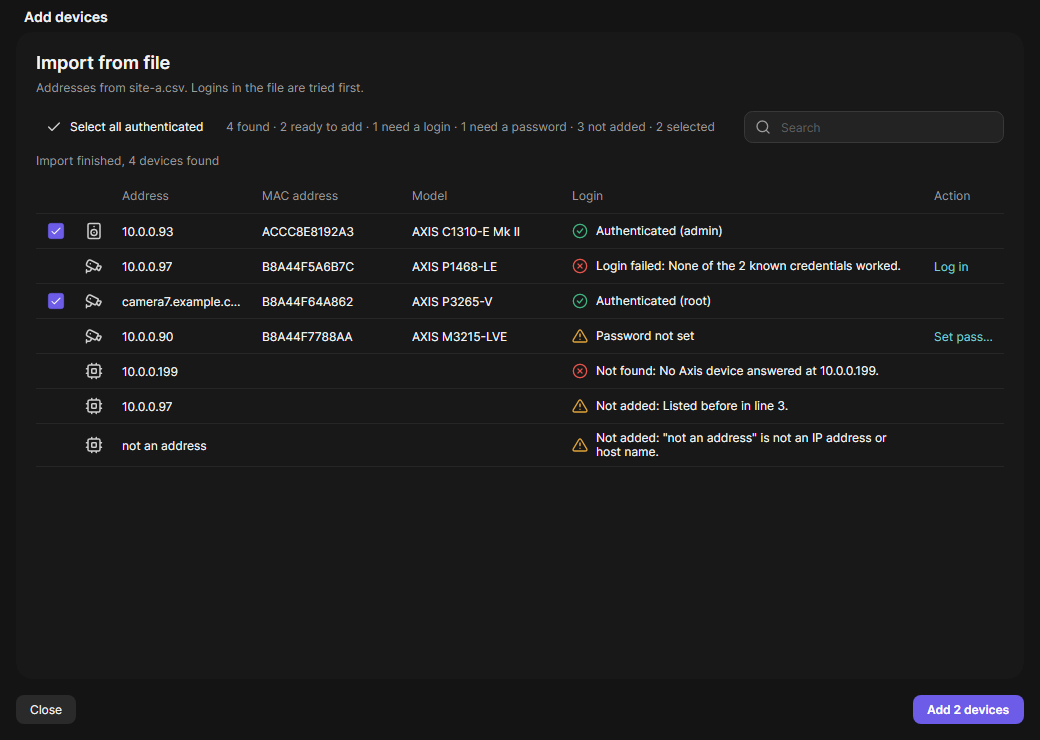
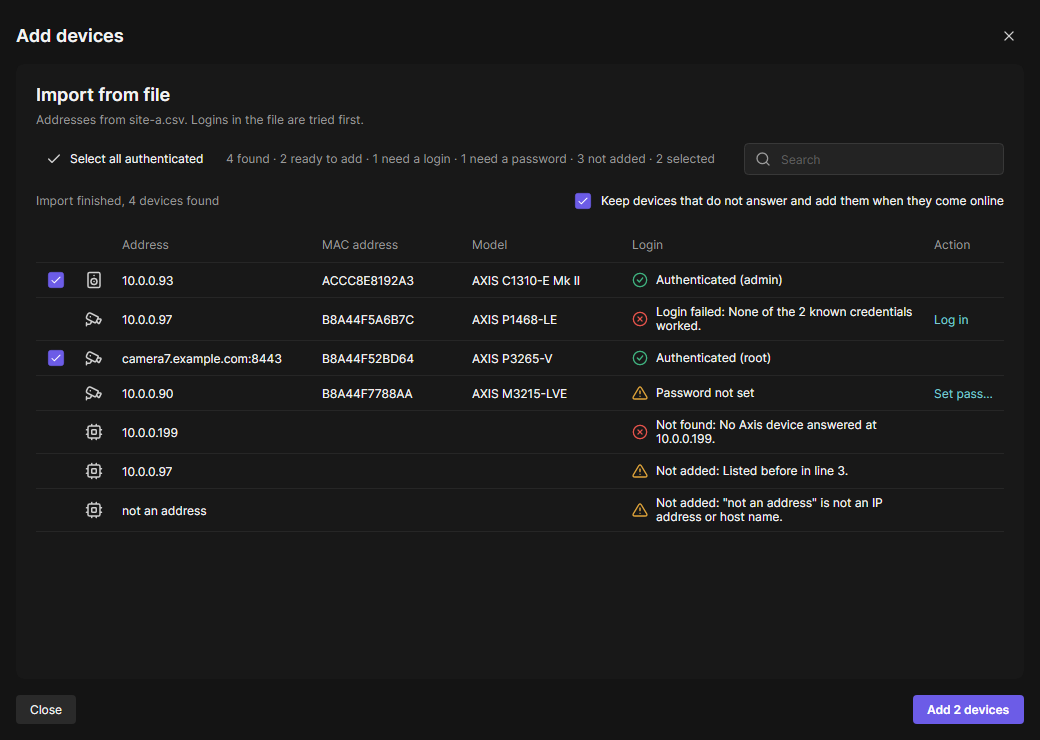
docs: 3.4.0 - devices that are off are added later, gauge widget
User docs: a section of its own for devices that are off (keep, waiting
list, Try now, Already waiting, failed logins), the gauge on the Dashboards
page, new screenshots. The gauge animation test drives its frames with set
times, so load never changes the result.

diff --git a/tests/Oadm.Plugins.Dashboards.Tests/DashboardsPageTests.cs b/tests/Oadm.Plugins.Dashboards.Tests/DashboardsPageTests.cs
@@ -111,27 +111,36 @@ public sealed class DashboardsPageTests
         Assert.True(tiny.Gauge.LabelsDrawn < 11); // small: labels thin out or go
         Headless.Capture(window, "plugin-dashboards-gauge.png");
 
-        // A new value: the marker glides there (in steps over several frames), never jumps; the number is new at once.
+        // A new value: the marker glides there over 0.4 s (frames driven with set times, so load never changes the
+        // result), never jumps or overshoots; the number is new at once.
         var moving = grade with { LineWidth = 6 };
         big.Show(moving, WidgetDisplay.Of(moving, Snapshot(Types.Temperature, data: ("temperature", "20"))));
         Assert.Equal(0.2, big.Gauge.MarkerTarget!.Value, 9);
         Assert.Equal("20", big.Display.Text);
-        var seen = new List<double>();
-        var end = DateTime.UtcNow.AddSeconds(5);
-        while (DateTime.UtcNow < end && (big.Gauge.MarkerFraction is not { } at || Math.Abs(at - 0.2) > 1e-6))
+        var start = TimeSpan.FromSeconds(100);
+        big.Gauge.Step(start);
+        Assert.Equal(0.7, big.Gauge.MarkerShown!.Value, 9); // the first frame starts the move where the marker was
+        var path = new List<double>();
+        for (var ms = 50; ms <= 400; ms += 50)
         {
-            Headless.Pump();
-            if (big.Gauge.MarkerFraction is { } now && (seen.Count == 0 || seen[^1] != now))
-            {
-                seen.Add(now);
-            }
-
-            Thread.Sleep(16);
+            big.Gauge.Step(start + TimeSpan.FromMilliseconds(ms));
+            path.Add(big.Gauge.MarkerShown!.Value);
         }
 
-        Assert.Equal(0.2, big.Gauge.MarkerFraction!.Value, 6);
-        Assert.Contains(seen, f => f < 0.7 - 1e-6 && f > 0.2 + 1e-6); // somewhere in between on the way
-        Assert.True(seen.Zip(seen.Skip(1)).All(p => p.Second <= p.First + 1e-9)); // straight down, no overshoot
+        Assert.All(path[..^1], f => Assert.InRange(f, 0.2 + 1e-6, 0.7 - 1e-6)); // in between on the way
+        Assert.True(path.Zip(path.Skip(1)).All(p => p.Second <= p.First)); // straight down, no overshoot
+        Assert.Equal(0.2, path[^1], 9); // there after 0.4 s
+        Assert.True(0.7 - path[0] > path[^2] - path[^1]); // ease-out: the first step covers more than the last
+
+        // A value arriving in the middle of a move continues from where the marker is.
+        big.Show(moving, WidgetDisplay.Of(moving, Snapshot(Types.Temperature, data: ("temperature", "90"))));
+        big.Gauge.Step(start + TimeSpan.FromSeconds(1));
+        big.Gauge.Step(start + TimeSpan.FromSeconds(1.1));
+        var midway = big.Gauge.MarkerShown!.Value;
+        Assert.InRange(midway, 0.2 + 1e-6, 0.9 - 1e-6);
+        big.Show(moving, WidgetDisplay.Of(moving, Snapshot(Types.Temperature, data: ("temperature", "50"))));
+        big.Gauge.Step(start + TimeSpan.FromSeconds(2));
+        Assert.Equal(midway, big.Gauge.MarkerShown!.Value, 9); // no jump back to 20 or ahead to 90
         window.Close();
         return Task.CompletedTask;
     });

diff --git a/plugins/Oadm.Plugins.Dashboards.Client/GaugeView.cs b/plugins/Oadm.Plugins.Dashboards.Client/GaugeView.cs
@@ -46,6 +46,12 @@ public sealed class GaugeView : Control
     /// <summary>Where the marker is going (tests).</summary>
     internal double? MarkerTarget => _shown is null ? null : _to;
 
+    /// <summary>Where the marker is now, 0 (Min) to 1 (Max) (tests).</summary>
+    internal double? MarkerShown => _shown;
+
+    /// <summary>One animation frame at <paramref name="time"/> (tests drive the frames with set times).</summary>
+    internal void Step(TimeSpan time) => OnFrame(time);
+
     public void Show(Widget widget, WidgetDisplay display)
     {
         ArgumentNullException.ThrowIfNull(widget);

diff --git a/CHANGELOG.md b/CHANGELOG.md
@@ -4,16 +4,18 @@ Notable changes to OADM, newest first. Format: [Keep a Changelog](https://keepac
 [Semantic Versioning](https://semver.org/). New changes go under **Unreleased**; a release renames that section to its
 version and date, and the release workflow copies it into the GitHub release.
 
-## [Unreleased]
+## [3.4.0] - 2026-10-17
 
 ### Added
 
+- **Devices that are off are added later**: an import (from a file or from ADM) keeps the devices that do not answer
+  and OADM adds each one once it comes online, with the login and tags of its line. The Devices page shows how many are
+  waiting; the list shows the last try and its result and lets you try them now (rows say "Checking"), export them or
+  remove them. A device that rejects every password waits for "Try now" instead of getting the same passwords again.
+  Importing again marks lines that are waiting already. Settings: "Try waiting devices every (min)", 15 by default.
 - **Gauge widget on dashboards**: a number on an arc from Min to Max, with the Number widget's decimals, unit, color and
-  thresholds; the thresholds color the arc, the ticks follow Min and Max by themselves.
-
-- **Waiting list for imports**: devices of an import that do not answer are kept and added automatically once they come
-  online, with the login and tags of their line. The Devices page shows how many are waiting; the list lets you try them
-  now, export or remove them. Settings: "Try waiting devices every (min)", 15 by default.
+  thresholds and a line width; the thresholds color the arc, the ticks follow Min and Max by themselves, and the marker
+  glides to each new value.
 
 ### Changed
 
@@ -23,6 +25,8 @@ version and date, and the release workflow copies it into the GitHub release.
   answer is given up after the scan timeout (1.5 s). 30,000 devices with 10 % off take about 12 to 15 minutes on a LAN.
 - **Tags** can have up to 64 characters. Longer tags in an imported file are shortened to 64 instead of stopping the
   device from being added. Long tags in the device list end with "…".
+- **Dashboards**: a new threshold takes a color no other threshold of the widget uses yet.
+- **Settings**: "IP range scan timeout" is now "Scan timeout"; it also applies to the first contact of imported devices.
 
 ## [3.3.1] - 2026-10-16
 
